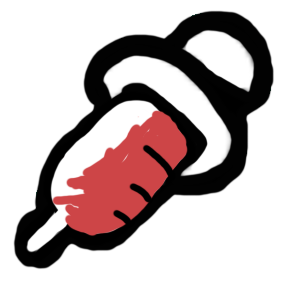
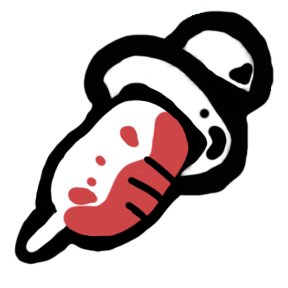
Update injector

diff --git a/TouMiraRolesExtension/Options/Roles/Impostor/InjectorOptions.cs b/TouMiraRolesExtension/Options/Roles/Impostor/InjectorOptions.cs
@@ -1,8 +1,12 @@
+using System.Collections.Generic;
+using System.Linq;
+using AmongUs.GameOptions;
 using MiraAPI.GameOptions;
 using MiraAPI.GameOptions.Attributes;
 using MiraAPI.GameOptions.OptionTypes;
 using MiraAPI.Utilities;
 using TouMiraRolesExtension.Roles.Impostor;
+using TownOfUs.Interfaces;
 using TownOfUs.Modules.Localization;
 
 namespace TouMiraRolesExtension.Options.Roles.Impostor;
@@ -14,7 +18,24 @@ public enum InjectorEffectDurationType
     SetTime
 }
 
-public sealed class InjectorOptions : AbstractOptionGroup<InjectorRole>
+public enum InjectorEffectType
+{
+    InvertedControls,
+    LowVision,
+    Slowness,
+    VeryLowVision,
+    Confused,
+    NoVent,
+    NoUse,
+    NoReport,
+    Nausea,
+    Weakness,
+    SpeedBoost,
+    VisionBoost,
+    Regeneration
+}
+
+public sealed class InjectorOptions : AbstractOptionGroup<InjectorRole>, IWikiOptionsSummaryProvider
 {
     public override string GroupName => TouLocale.Get("ExtensionRoleInjector", "Injector");
 
@@ -43,56 +64,211 @@ public sealed class InjectorOptions : AbstractOptionGroup<InjectorRole>
     [ModdedNumberOption("ExtensionOptionInjectorUsesPerKill", 0, 5)]
     public float UsesPerKill { get; set; } = 1f;
 
-    // Negative Effect Chances
-    [ModdedNumberOption("ExtensionOptionInjectorChanceInvertedControls", 0f, 100f, 10f, MiraNumberSuffixes.Percent)]
-    public float ChanceInvertedControls { get; set; } = 20f;
-
-    [ModdedNumberOption("ExtensionOptionInjectorChanceLowVision", 0f, 100f, 10f, MiraNumberSuffixes.Percent)]
-    public float ChanceLowVision { get; set; } = 30f;
-
-    [ModdedNumberOption("ExtensionOptionInjectorChanceSlowness", 0f, 100f, 10f, MiraNumberSuffixes.Percent)]
-    public float ChanceSlowness { get; set; } = 30f;
-
-    [ModdedNumberOption("ExtensionOptionInjectorChanceVeryLowVision", 0f, 100f, 10f, MiraNumberSuffixes.Percent)]
-    public float ChanceVeryLowVision { get; set; } = 10f;
-
-    [ModdedNumberOption("ExtensionOptionInjectorChanceConfused", 0f, 100f, 10f, MiraNumberSuffixes.Percent)]
-    public float ChanceConfused { get; set; } = 40f;
-
-    [ModdedNumberOption("ExtensionOptionInjectorChanceNoVent", 0f, 100f, 10f, MiraNumberSuffixes.Percent)]
-    public float ChanceNoVent { get; set; } = 20f;
-
-    [ModdedNumberOption("ExtensionOptionInjectorChanceNoUse", 0f, 100f, 10f, MiraNumberSuffixes.Percent)]
-    public float ChanceNoUse { get; set; } = 20f;
-
-    [ModdedNumberOption("ExtensionOptionInjectorChanceNoReport", 0f, 100f, 10f, MiraNumberSuffixes.Percent)]
-    public float ChanceNoReport { get; set; } = 20f;
-
-    [ModdedNumberOption("ExtensionOptionInjectorChanceNausea", 0f, 100f, 10f, MiraNumberSuffixes.Percent)]
-    public float ChanceNausea { get; set; } = 40f;
-
-    [ModdedNumberOption("ExtensionOptionInjectorChanceWeakness", 0f, 100f, 10f, MiraNumberSuffixes.Percent)]
-    public float ChanceWeakness { get; set; } = 20f;
-
     [ModdedToggleOption("ExtensionOptionInjectorPositiveEffectsEnabled")]
     public bool PositiveEffectsEnabled { get; set; } = true;
 
-    // Positive Effect Chances
-    public ModdedNumberOption ChanceSpeedBoost { get; } =
+    // Effect selection and chance configuration
+    private static readonly string[] EffectTypeValues =
+    [
+        "ExtensionOptionInjectorEffectTypeEnumInvertedControls",
+        "ExtensionOptionInjectorEffectTypeEnumLowVision",
+        "ExtensionOptionInjectorEffectTypeEnumSlowness",
+        "ExtensionOptionInjectorEffectTypeEnumVeryLowVision",
+        "ExtensionOptionInjectorEffectTypeEnumConfused",
+        "ExtensionOptionInjectorEffectTypeEnumNoVent",
+        "ExtensionOptionInjectorEffectTypeEnumNoUse",
+        "ExtensionOptionInjectorEffectTypeEnumNoReport",
+        "ExtensionOptionInjectorEffectTypeEnumNausea",
+        "ExtensionOptionInjectorEffectTypeEnumWeakness",
+        "ExtensionOptionInjectorEffectTypeEnumSpeedBoost",
+        "ExtensionOptionInjectorEffectTypeEnumVisionBoost",
+        "ExtensionOptionInjectorEffectTypeEnumRegeneration"
+    ];
+
+    public ModdedEnumOption<InjectorEffectType> SelectedEffectType { get; } =
+        new("ExtensionOptionInjectorSelectedEffectType", InjectorEffectType.InvertedControls, EffectTypeValues);
+
+    // Individual chance options for each effect type - only the selected one is visible
+    public ModdedNumberOption ChanceInvertedControlsOption { get; } =
+        new("ExtensionOptionInjectorChanceInvertedControls", 20f, 0f, 100f, 10f, MiraNumberSuffixes.Percent)
+        {
+            Visible = () => OptionGroupSingleton<InjectorOptions>.Instance.SelectedEffectType.Value == InjectorEffectType.InvertedControls
+        };
+
+    public ModdedNumberOption ChanceLowVisionOption { get; } =
+        new("ExtensionOptionInjectorChanceLowVision", 30f, 0f, 100f, 10f, MiraNumberSuffixes.Percent)
+        {
+            Visible = () => OptionGroupSingleton<InjectorOptions>.Instance.SelectedEffectType.Value == InjectorEffectType.LowVision
+        };
+
+    public ModdedNumberOption ChanceSlownessOption { get; } =
+        new("ExtensionOptionInjectorChanceSlowness", 30f, 0f, 100f, 10f, MiraNumberSuffixes.Percent)
+        {
+            Visible = () => OptionGroupSingleton<InjectorOptions>.Instance.SelectedEffectType.Value == InjectorEffectType.Slowness
+        };
+
+    public ModdedNumberOption ChanceVeryLowVisionOption { get; } =
+        new("ExtensionOptionInjectorChanceVeryLowVision", 10f, 0f, 100f, 10f, MiraNumberSuffixes.Percent)
+        {
+            Visible = () => OptionGroupSingleton<InjectorOptions>.Instance.SelectedEffectType.Value == InjectorEffectType.VeryLowVision
+        };
+
+    public ModdedNumberOption ChanceConfusedOption { get; } =
+        new("ExtensionOptionInjectorChanceConfused", 40f, 0f, 100f, 10f, MiraNumberSuffixes.Percent)
+        {
+            Visible = () => OptionGroupSingleton<InjectorOptions>.Instance.SelectedEffectType.Value == InjectorEffectType.Confused
+        };
+
+    public ModdedNumberOption ChanceNoVentOption { get; } =
+        new("ExtensionOptionInjectorChanceNoVent", 20f, 0f, 100f, 10f, MiraNumberSuffixes.Percent)
+        {
+            Visible = () => OptionGroupSingleton<InjectorOptions>.Instance.SelectedEffectType.Value == InjectorEffectType.NoVent
+        };
+
+    public ModdedNumberOption ChanceNoUseOption { get; } =
+        new("ExtensionOptionInjectorChanceNoUse", 20f, 0f, 100f, 10f, MiraNumberSuffixes.Percent)
+        {
+            Visible = () => OptionGroupSingleton<InjectorOptions>.Instance.SelectedEffectType.Value == InjectorEffectType.NoUse
+        };
+
+    public ModdedNumberOption ChanceNoReportOption { get; } =
+        new("ExtensionOptionInjectorChanceNoReport", 20f, 0f, 100f, 10f, MiraNumberSuffixes.Percent)
+        {
+            Visible = () => OptionGroupSingleton<InjectorOptions>.Instance.SelectedEffectType.Value == InjectorEffectType.NoReport
+        };
+
+    public ModdedNumberOption ChanceNauseaOption { get; } =
+        new("ExtensionOptionInjectorChanceNausea", 40f, 0f, 100f, 10f, MiraNumberSuffixes.Percent)
+        {
+            Visible = () => OptionGroupSingleton<InjectorOptions>.Instance.SelectedEffectType.Value == InjectorEffectType.Nausea
+        };
+
+    public ModdedNumberOption ChanceWeaknessOption { get; } =
+        new("ExtensionOptionInjectorChanceWeakness", 20f, 0f, 100f, 10f, MiraNumberSuffixes.Percent)
+        {
+            Visible = () => OptionGroupSingleton<InjectorOptions>.Instance.SelectedEffectType.Value == InjectorEffectType.Weakness
+        };
+
+    public ModdedNumberOption ChanceSpeedBoostOption { get; } =
         new("ExtensionOptionInjectorChanceSpeedBoost", 10f, 0f, 100f, 10f, MiraNumberSuffixes.Percent)
         {
-            Visible = () => OptionGroupSingleton<InjectorOptions>.Instance.PositiveEffectsEnabled
+            Visible = () => OptionGroupSingleton<InjectorOptions>.Instance.SelectedEffectType.Value == InjectorEffectType.SpeedBoost &&
+                            OptionGroupSingleton<InjectorOptions>.Instance.PositiveEffectsEnabled
         };
 
-    public ModdedNumberOption ChanceVisionBoost { get; } =
+    public ModdedNumberOption ChanceVisionBoostOption { get; } =
         new("ExtensionOptionInjectorChanceVisionBoost", 10f, 0f, 100f, 10f, MiraNumberSuffixes.Percent)
         {
-            Visible = () => OptionGroupSingleton<InjectorOptions>.Instance.PositiveEffectsEnabled
+            Visible = () => OptionGroupSingleton<InjectorOptions>.Instance.SelectedEffectType.Value == InjectorEffectType.VisionBoost &&
+                            OptionGroupSingleton<InjectorOptions>.Instance.PositiveEffectsEnabled
         };
 
-    public ModdedNumberOption ChanceRegeneration { get; } =
+    public ModdedNumberOption ChanceRegenerationOption { get; } =
         new("ExtensionOptionInjectorChanceRegeneration", 10f, 0f, 100f, 10f, MiraNumberSuffixes.Percent)
         {
-            Visible = () => OptionGroupSingleton<InjectorOptions>.Instance.PositiveEffectsEnabled
+            Visible = () => OptionGroupSingleton<InjectorOptions>.Instance.SelectedEffectType.Value == InjectorEffectType.Regeneration &&
+                            OptionGroupSingleton<InjectorOptions>.Instance.PositiveEffectsEnabled
         };
+
+    // Properties for backward compatibility with InjectorEvents
+    public float GetEffectChance(InjectorEffectType effectType)
+    {
+        return effectType switch
+        {
+            InjectorEffectType.InvertedControls => ChanceInvertedControlsOption.Value,
+            InjectorEffectType.LowVision => ChanceLowVisionOption.Value,
+            InjectorEffectType.Slowness => ChanceSlownessOption.Value,
+            InjectorEffectType.VeryLowVision => ChanceVeryLowVisionOption.Value,
+            InjectorEffectType.Confused => ChanceConfusedOption.Value,
+            InjectorEffectType.NoVent => ChanceNoVentOption.Value,
+            InjectorEffectType.NoUse => ChanceNoUseOption.Value,
+            InjectorEffectType.NoReport => ChanceNoReportOption.Value,
+            InjectorEffectType.Nausea => ChanceNauseaOption.Value,
+            InjectorEffectType.Weakness => ChanceWeaknessOption.Value,
+            InjectorEffectType.SpeedBoost => ChanceSpeedBoostOption.Value,
+            InjectorEffectType.VisionBoost => ChanceVisionBoostOption.Value,
+            InjectorEffectType.Regeneration => ChanceRegenerationOption.Value,
+            _ => 0f
+        };
+    }
+
+    // Public properties for backward compatibility with InjectorEvents
+    public float ChanceInvertedControls => ChanceInvertedControlsOption.Value;
+    public float ChanceLowVision => ChanceLowVisionOption.Value;
+    public float ChanceSlowness => ChanceSlownessOption.Value;
+    public float ChanceVeryLowVision => ChanceVeryLowVisionOption.Value;
+    public float ChanceConfused => ChanceConfusedOption.Value;
+    public float ChanceNoVent => ChanceNoVentOption.Value;
+    public float ChanceNoUse => ChanceNoUseOption.Value;
+    public float ChanceNoReport => ChanceNoReportOption.Value;
+    public float ChanceNausea => ChanceNauseaOption.Value;
+    public float ChanceWeakness => ChanceWeaknessOption.Value;
+    public float ChanceSpeedBoost => ChanceSpeedBoostOption.Value;
+    public float ChanceVisionBoost => ChanceVisionBoostOption.Value;
+    public float ChanceRegeneration => ChanceRegenerationOption.Value;
+
+    // IWikiOptionsSummaryProvider implementation
+    public IReadOnlySet<StringNames> WikiHiddenOptionKeys =>
+        new HashSet<StringNames>
+        {
+            SelectedEffectType.StringName,
+            ChanceInvertedControlsOption.StringName,
+            ChanceLowVisionOption.StringName,
+            ChanceSlownessOption.StringName,
+            ChanceVeryLowVisionOption.StringName,
+            ChanceConfusedOption.StringName,
+            ChanceNoVentOption.StringName,
+            ChanceNoUseOption.StringName,
+            ChanceNoReportOption.StringName,
+            ChanceNauseaOption.StringName,
+            ChanceWeaknessOption.StringName,
+            ChanceSpeedBoostOption.StringName,
+            ChanceVisionBoostOption.StringName,
+            ChanceRegenerationOption.StringName
+        };
+
+    public IEnumerable<string> GetWikiOptionSummaryLines()
+    {
+        var enabledEffects = new List<string>();
+        
+        // Negative effects
+        if (GetEffectChance(InjectorEffectType.InvertedControls) > 0)
+            enabledEffects.Add($"Inverted Controls: {GetEffectChance(InjectorEffectType.InvertedControls)}%");
+        if (GetEffectChance(InjectorEffectType.LowVision) > 0)
+            enabledEffects.Add($"Low Vision: {GetEffectChance(InjectorEffectType.LowVision)}%");
+        if (GetEffectChance(InjectorEffectType.Slowness) > 0)
+            enabledEffects.Add($"Slowness: {GetEffectChance(InjectorEffectType.Slowness)}%");
+        if (GetEffectChance(InjectorEffectType.VeryLowVision) > 0)
+            enabledEffects.Add($"Very Low Vision: {GetEffectChance(InjectorEffectType.VeryLowVision)}%");
+        if (GetEffectChance(InjectorEffectType.Confused) > 0)
+            enabledEffects.Add($"Confused: {GetEffectChance(InjectorEffectType.Confused)}%");
+        if (GetEffectChance(InjectorEffectType.NoVent) > 0)
+            enabledEffects.Add($"No Vent: {GetEffectChance(InjectorEffectType.NoVent)}%");
+        if (GetEffectChance(InjectorEffectType.NoUse) > 0)
+            enabledEffects.Add($"No Use: {GetEffectChance(InjectorEffectType.NoUse)}%");
+        if (GetEffectChance(InjectorEffectType.NoReport) > 0)
+            enabledEffects.Add($"No Report: {GetEffectChance(InjectorEffectType.NoReport)}%");
+        if (GetEffectChance(InjectorEffectType.Nausea) > 0)
+            enabledEffects.Add($"Nausea: {GetEffectChance(InjectorEffectType.Nausea)}%");
+        if (GetEffectChance(InjectorEffectType.Weakness) > 0)
+            enabledEffects.Add($"Weakness: {GetEffectChance(InjectorEffectType.Weakness)}%");
+
+        // Positive effects (only if enabled)
+        if (PositiveEffectsEnabled)
+        {
+            if (GetEffectChance(InjectorEffectType.SpeedBoost) > 0)
+                enabledEffects.Add($"Speed Boost: {GetEffectChance(InjectorEffectType.SpeedBoost)}%");
+            if (GetEffectChance(InjectorEffectType.VisionBoost) > 0)
+                enabledEffects.Add($"Vision Boost: {GetEffectChance(InjectorEffectType.VisionBoost)}%");
+            if (GetEffectChance(InjectorEffectType.Regeneration) > 0)
+                enabledEffects.Add($"Regeneration: {GetEffectChance(InjectorEffectType.Regeneration)}%");
+        }
+
+        if (enabledEffects.Count == 0)
+        {
+            return new[] { "Effect Chances: None configured" };
+        }
+
+        return new[] { $"Effect Chances: {string.Join(", ", enabledEffects)}" };
+    }
 }

diff --git a/TouMiraRolesExtension/Events/Impostor/InjectorEvents.cs b/TouMiraRolesExtension/Events/Impostor/InjectorEvents.cs
@@ -122,9 +122,9 @@ public static class InjectorEvents
         // Positive effects (only if enabled)
         if (options.PositiveEffectsEnabled)
         {
-            effects.Add((options.ChanceSpeedBoost.Value, () => new InjectedSpeedBoostModifier(duration, durationType), "ExtensionInjectorNotificationSpeedBoost"));
-            effects.Add((options.ChanceVisionBoost.Value, () => new InjectedVisionBoostModifier(duration, durationType), "ExtensionInjectorNotificationVisionBoost"));
-            effects.Add((options.ChanceRegeneration.Value, () => new InjectedRegenerationModifier(duration, durationType), "ExtensionInjectorNotificationRegeneration"));
+            effects.Add((options.ChanceSpeedBoost, () => new InjectedSpeedBoostModifier(duration, durationType), "ExtensionInjectorNotificationSpeedBoost"));
+            effects.Add((options.ChanceVisionBoost, () => new InjectedVisionBoostModifier(duration, durationType), "ExtensionInjectorNotificationVisionBoost"));
+            effects.Add((options.ChanceRegeneration, () => new InjectedRegenerationModifier(duration, durationType), "ExtensionInjectorNotificationRegeneration"));
         }
 
         // Calculate total weight
